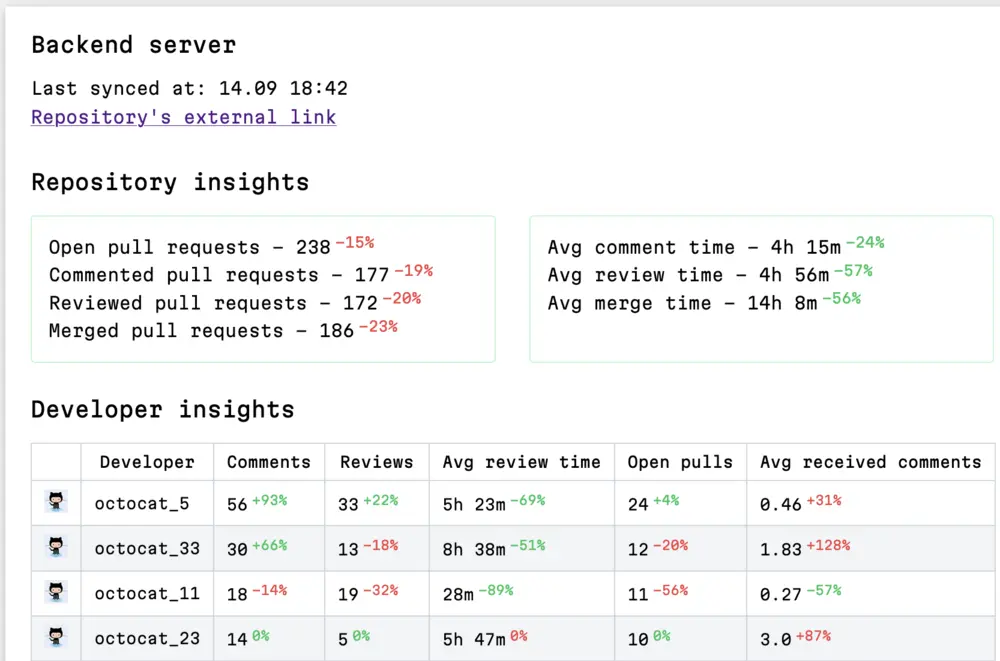
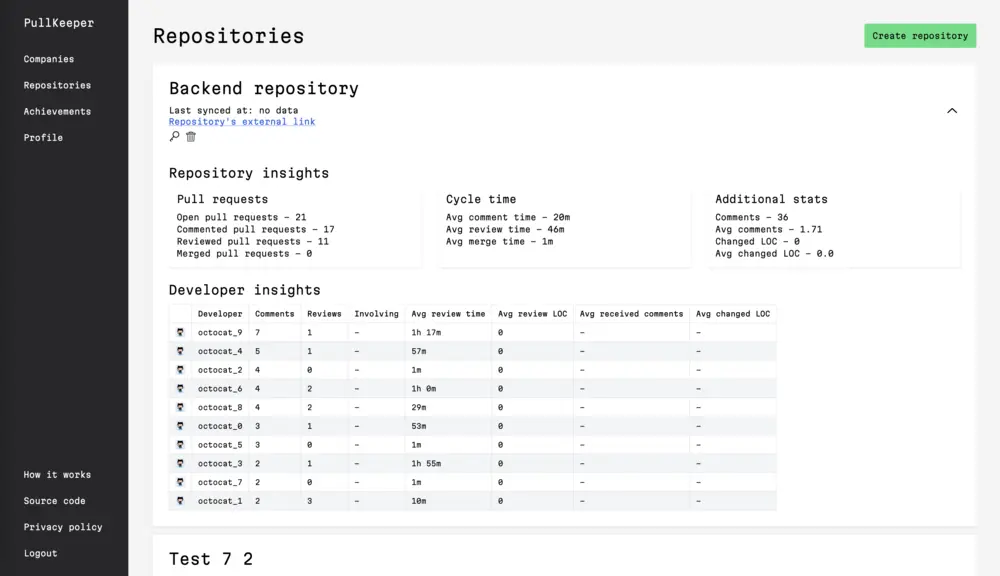
last changes, seeds update

diff --git a/app/assets/stylesheets/application.tailwind.css b/app/assets/stylesheets/application.tailwind.css
@@ -36,7 +36,11 @@
   }
 
   .btn-primary {
-    @apply inline-block bg-zinc-800 hover:bg-zinc-600 text-white py-2 px-4 rounded leading-8;
+    @apply inline-block bg-green-400 hover:bg-green-500 text-black py-2 px-4 rounded leading-8 cursor-pointer;
+  }
+
+  .btn-danger {
+    @apply bg-red-400 hover:bg-red-500;
   }
 
   .btn-small {
@@ -97,20 +101,24 @@
     @apply w-full;
   }
 
-  .pagination {
-    @apply mb-4;
+  nav.pagination .page {
+    @apply inline-block;
   }
 
-  .pagination .page {
-    @apply py-2 px-3 bg-green-200;
+  nav.pagination .page.disabled, nav.pagination .page.active {
+    @apply py-2 px-3;
   }
 
-  .pagination .page a {
-    @apply text-black;
+  nav.pagination .page a {
+    @apply inline-block text-black py-2 px-3;
   }
 
-  .pagination .page.active {
+  nav.pagination .page, nav.pagination .page.disabled:hover {
     @apply bg-green-300;
+  }
+
+  nav.pagination .page.active, nav.pagination .page:hover {
+    @apply bg-green-400;
   }
 
   .toggle {
@@ -134,19 +142,14 @@
     left: calc(100% - 22px);
   }
 
-  .toggle .toggle-label {
-    @apply block cursor-pointer overflow-hidden rounded-full border-2;
+  .toggle .toggle-checkbox + .toggle-label {
+    @apply block cursor-pointer overflow-hidden rounded-full bg-gray-300 border-2 border-gray-300 transition-colors;
 
     width: 40px;
     height: 24px;
   }
 
-  .toggle .toggle-checkbox:not([disabled]) + .toggle-label {
-    @apply bg-gray-300 border-gray-300;
-    @apply transition-colors;
-  }
-
-  .toggle:hover .toggle-checkbox:not([disabled]) + .toggle-label {
+  .toggle:hover .toggle-checkbox + .toggle-label {
     @apply border-gray-500;
   }
 
@@ -156,11 +159,6 @@
 
   .toggle:hover .toggle-checkbox:checked + .toggle-label {
     @apply border-green-700;
-  }
-
-  .toggle .toggle-checkbox:disabled + .toggle-label,
-  .toggle:hover .toggle-checkbox:disabled + .toggle-label {
-    @apply bg-gray-400 border-gray-400;
   }
 }
 

diff --git a/app/javascript/components/Repository/Repository.jsx b/app/javascript/components/Repository/Repository.jsx
@@ -141,7 +141,7 @@ export const Repository = ({
         <Chevron rotated={pageState.expanded} />
       </div>
       {pageState.expanded ? (
-        <div className="py-4 px-8">
+        <div className="pt-4 px-8 pb-8">
           {pageState.insights !== undefined ? (
             <>
               <h3 className="mb-4">Repository insights</h3>

diff --git a/app/javascript/components/Company/Company.jsx b/app/javascript/components/Company/Company.jsx
@@ -131,7 +131,7 @@ export const Company = ({
         <Chevron rotated={pageState.expanded} />
       </div>
       {pageState.expanded ? (
-        <div className="py-4 px-8">
+        <div className="pt-4 px-8 pb-8">
           <h3 className="mb-4">Developer insights</h3>
           {renderInsightsData()}
         </div>

diff --git a/config/tailwind.config.js b/config/tailwind.config.js
@@ -14,7 +14,7 @@ module.exports = {
       },
       maxWidth: {
         '8xl': '90rem',
-      },
+      }
     },
   },
   plugins: [

diff --git a/db/seeds.rb b/db/seeds.rb
@@ -148,7 +148,7 @@ Subscription.create(user: user, start_time: 1.day.ago, end_time: 1.year.after)
 7.times do |company_index|
   company = Company.create(title: "Test company #{company_index + 1}", user: User.all.sample)
   3.times do |repository_index|
-    repository = Repositories::CreateService.call(
+    repository = ::Repositories::CreateForm.call(
       company: company,
       params: {
         title: "Test #{company_index + 1} #{repository_index + 1}",
@@ -217,8 +217,8 @@ Subscription.create(user: user, start_time: 1.day.ago, end_time: 1.year.after)
         end
       end
     end
-    Insights::GenerateService.call(insightable: repository)
+    Insights::Generate::RepositoryService.call(insightable: repository)
   end
-  Insights::GenerateService.call(insightable: company)
+  Insights::Generate::CompanyService.call(insightable: company)
 end
 Users::RefreshAchievementsService.call

diff --git a/app/controllers/repositories_controller.rb b/app/controllers/repositories_controller.rb
@@ -3,7 +3,7 @@
 class RepositoriesController < ApplicationController
   include Pagy::Backend
 
-  PER_PAGE = 6
+  PER_PAGE = 5
 
   before_action :find_repositories, only: %i[index]
   before_action :find_company, only: %i[create]

diff --git a/app/controllers/companies_controller.rb b/app/controllers/companies_controller.rb
@@ -3,7 +3,7 @@
 class CompaniesController < ApplicationController
   include Pagy::Backend
 
-  PER_PAGE = 6
+  PER_PAGE = 5
 
   before_action :find_companies, only: %i[index]
   before_action :find_company, only: %i[destroy]

diff --git a/CHANGELOG.md b/CHANGELOG.md
@@ -5,6 +5,9 @@ The format is based on [Keep a Changelog](http://keepachangelog.com/en/1.0.0/)
 and this project adheres to [Semantic Versioning](http://semver.org/spec/v2.0.0.html).
 
 ## Unreleased
+### Modified
+- design with tailwind and react
+
 ### Fixed
 - bug with rendering repositories for not user companies
 
